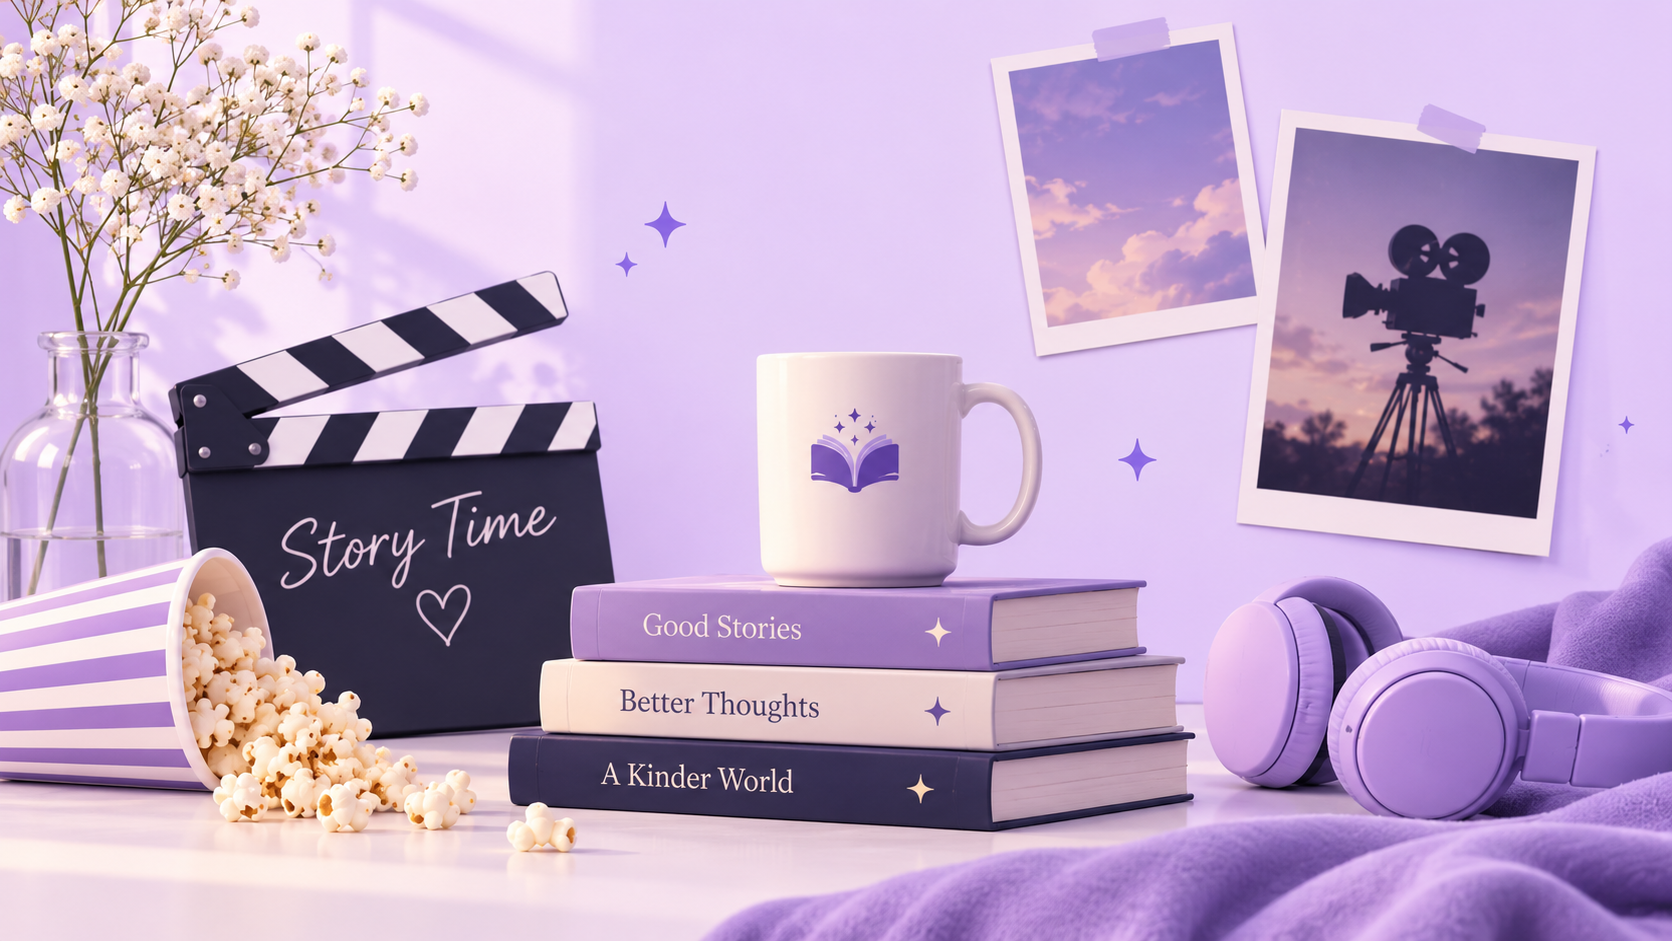
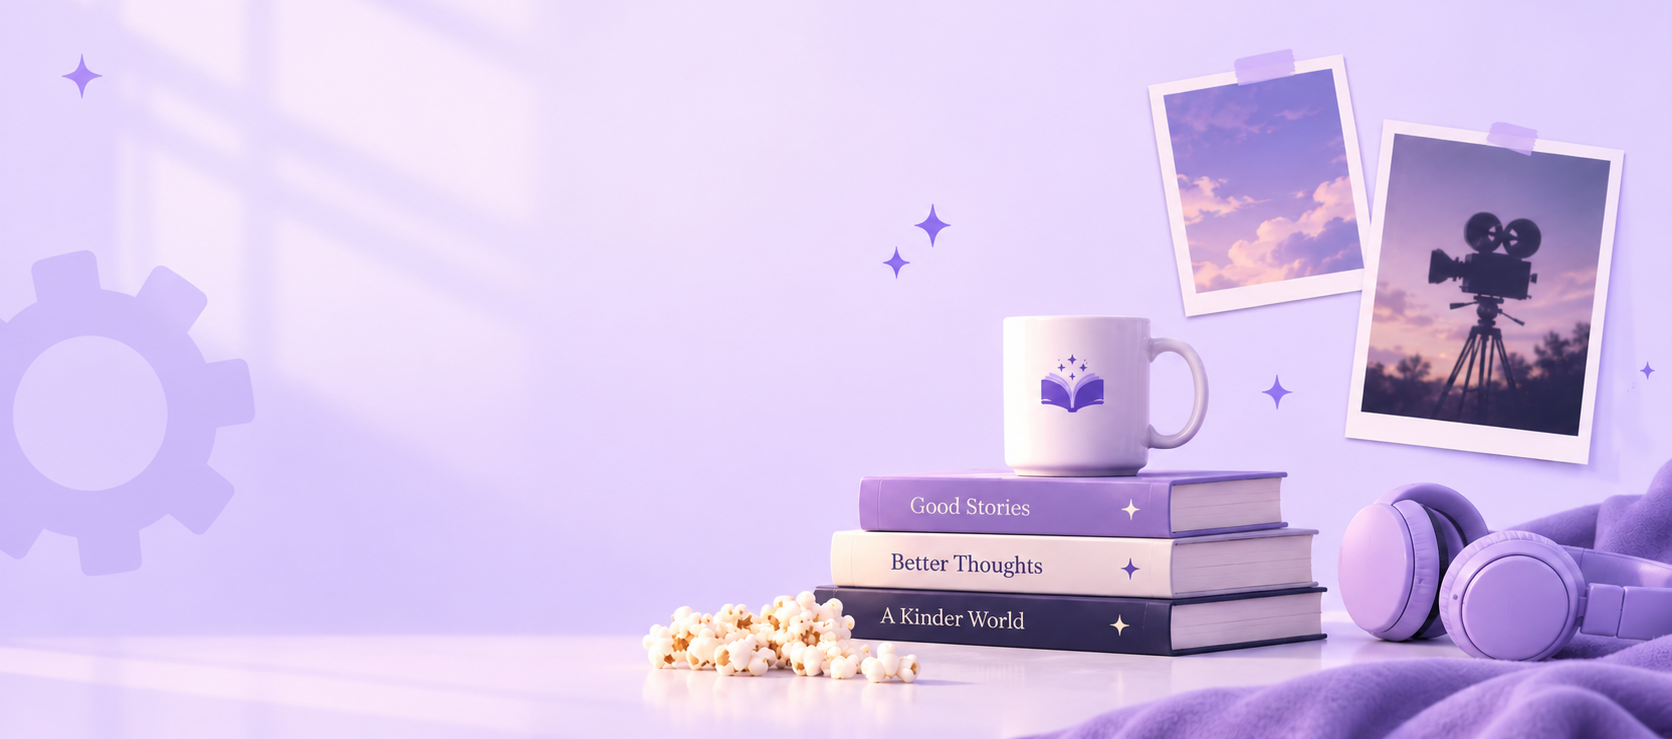
Session 3 Réalisation

diff --git a/Session 3/Réalisation/StoryTime/Accueil/StorytimeAccueilCss/StorytimeAccueil.css b/Session 3/Réalisation/StoryTime/Accueil/StorytimeAccueilCss/StorytimeAccueil.css
@@ -74,11 +74,9 @@ nav a:hover {
     justify-content: space-between;
     align-items: center;
     padding: 50px 60px;
-    background: #f1e9ff;
-}
-
-.intro-text {
-    width: 45%;
+    background-image: url("../../images.storytime/storytime-cover.png");
+    background-size: cover;
+    background-position: center;
 }
 
 .intro-text span {
@@ -95,7 +93,7 @@ nav a:hover {
 }
 
 .intro-text p {
-    color: #7a7480;
+    color: #3a393b;
     font-size: 16px;
     margin: 20px 0;
     font-family: 'Trebuchet MS', 'Lucida Sans Unicode', 'Lucida Grande', 'Lucida Sans', Arial, sans-serif;
@@ -116,17 +114,6 @@ nav a:hover {
 
 .intro-text a:hover {
     background: #472f56;
-}
-
-.intro-image {
-    width: 45%;
-}
-
-.intro-image img {
-    width: 100%;
-    height: 350px;
-    border-radius: 20px;
-    object-fit: cover;
 }
 
 

diff --git a/Session 3/Réalisation/StoryTime/Accueil/StorytimeAccueil.html b/Session 3/Réalisation/StoryTime/Accueil/StorytimeAccueil.html
@@ -49,12 +49,6 @@
 
             </div>
 
-            <div class="intro-image">
-
-                <img src="../images.storytime/storytime-cover.png" alt="Everything Everywhere All at Once">
-
-            </div>
-
         </section>
 
 
